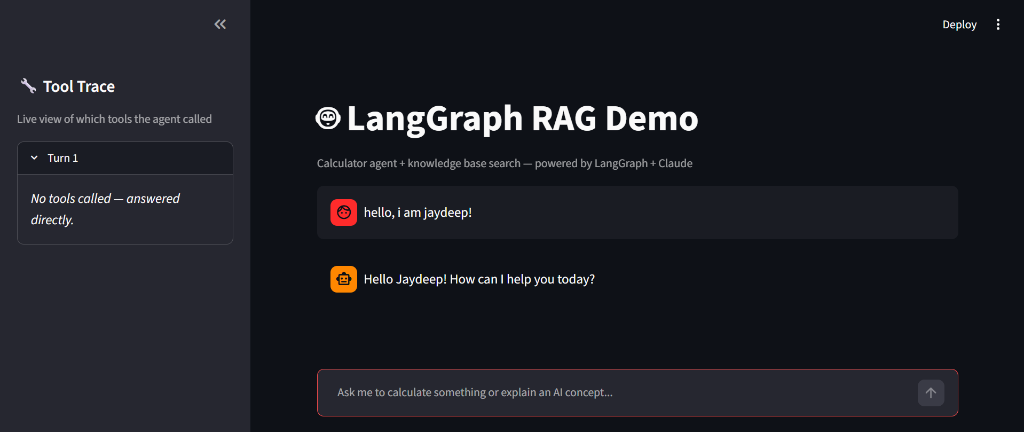
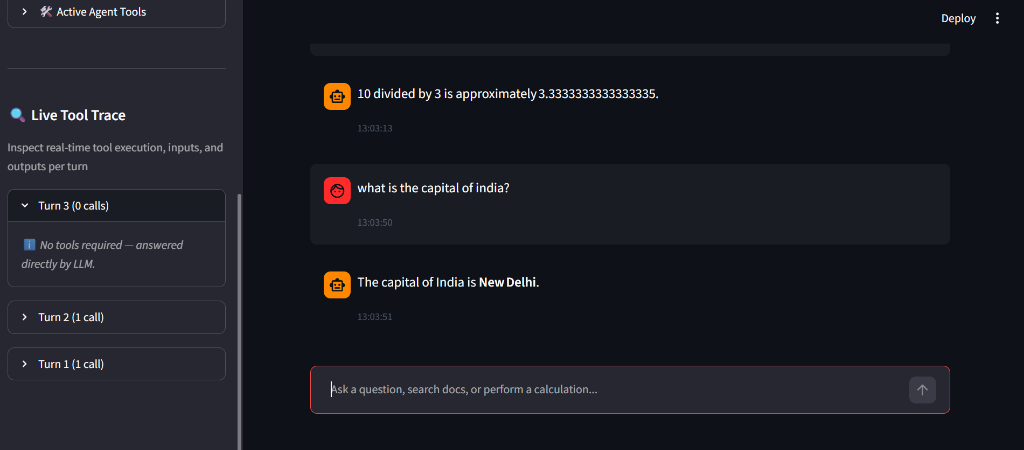
docs: update README screenshots with new interactive Streamlit UI views

diff --git a/README.md b/README.md
@@ -51,18 +51,21 @@ RAG+LangGraph_Project/
 
 ## 🖼 Application Screenshots & Demo
 
-Here is the Streamlit web interface in action, showcasing the stateful agent with live tool tracing, document search (RAG), and mathematical tool executions:
+Here is the interactive Streamlit web interface in action, showcasing sample question chips, live tool tracing, document search (RAG), and mathematical tool executions:
 
-### 1. Direct Conversational Response
-![Direct Response](assets/demo_direct_chat.png)
+### 1. Interactive Dashboard & Quick Sample Prompts
+![Interactive Dashboard](assets/demo_header_dashboard.png)
 
 ### 2. RAG Semantic Document Search (`search_docs`)
 ![RAG Semantic Search](assets/demo_rag_retrieval.png)
 
-### 3. Custom Math & Utility Tool Execution (`divide`)
-![Math Calculation Tool](assets/demo_math_tool.png)
+### 3. Custom Math Tool & Live Tool Trace (`divide`)
+![Math Tool Execution](assets/demo_math_tool.png)
 
-### 4. FAISS Knowledge Retrieval & Markdown Rendering
+### 4. Direct Conversational Response (No Tools Required)
+![Direct Response](assets/demo_direct_chat.png)
+
+### 5. FAISS Vector Retrieval & Markdown Rendering
 ![FAISS Knowledge Search](assets/demo_faiss_table.png)
 
 ---
